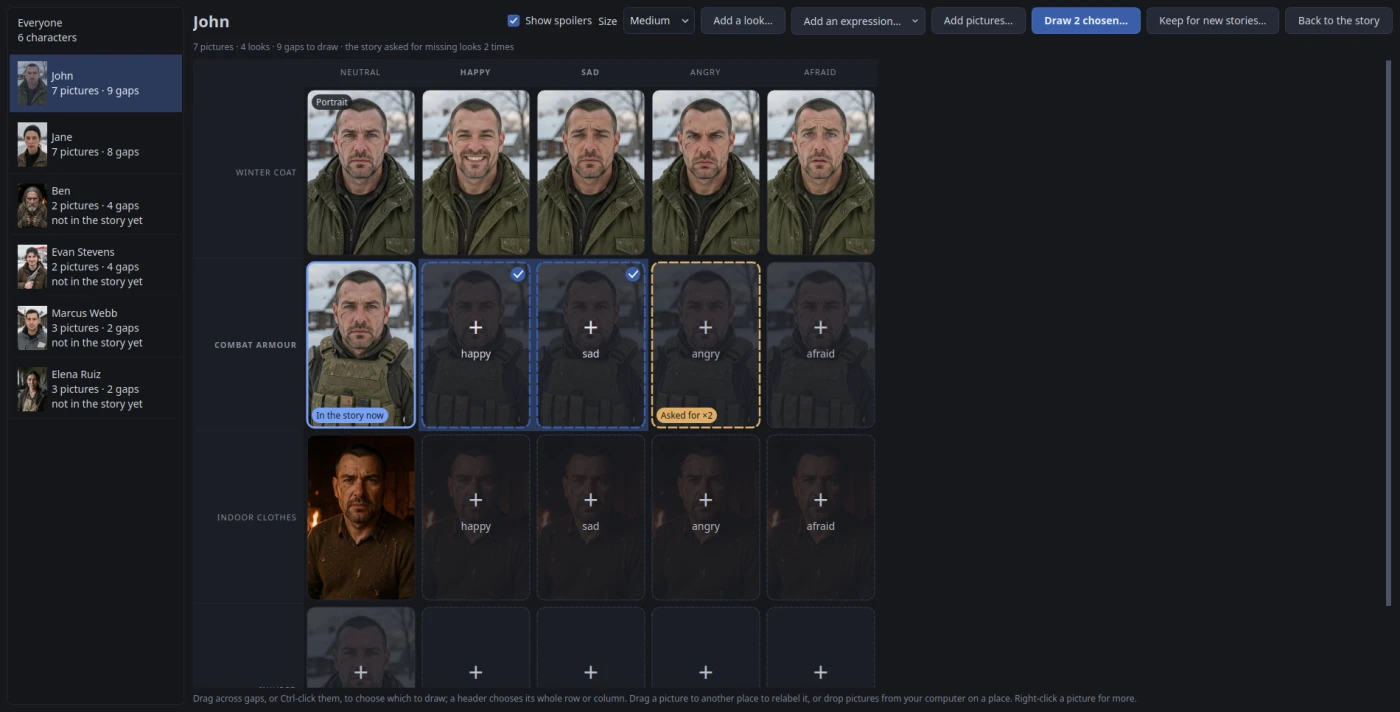
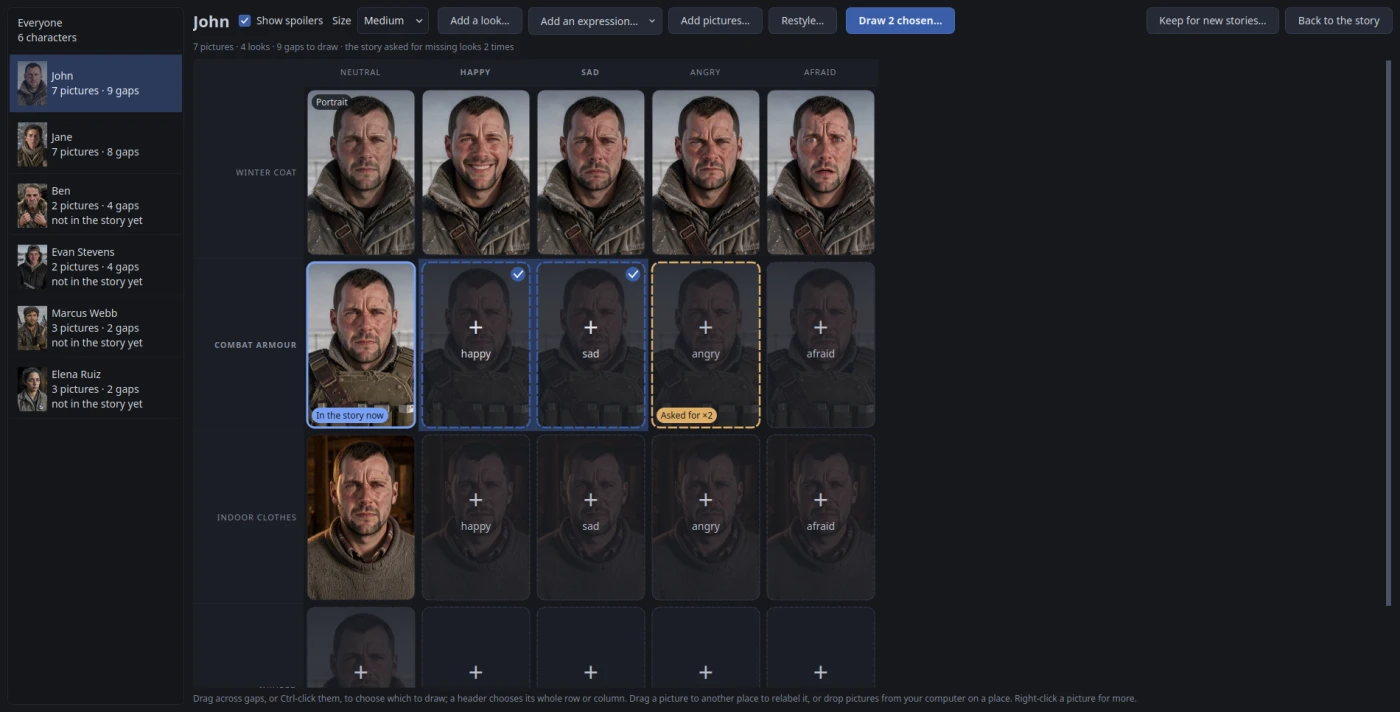
Doomsville redrawn on FLUX.3 Klein, gritty and realistic
Every character's portrait drawn again through the app's own path (GLM 5.3
writing in Doomsville's style, gritty and realistic, FLUX.3 Klein drawing;
two takes each, the better kept), and the eighteen looks drawn from them as
edits (the same labels; armour and indoor clothes in the earlier words).
Evan's angry drawn twice: the first was hardly more than his grin. Square
now (FLUX.3 Klein draws squares), 5.6 MB against 6.9 MB.

Elena's new portrait has a doctor's stethoscope and no apron (her card makes
her a doctor), so her look is "work clothes". The manual's cast board and
People page pictures are taken again with them.

diff --git a/SampleStories/Doomsville.md b/SampleStories/Doomsville.md
@@ -92,9 +92,9 @@ and how many people he can shoot with them.
 ## Elena Ruiz
 - role: storyteller
 - hidden: yes
-- picture: pictures/elena.jpg | portrait | look: apron | expression: neutral
-- picture: pictures/elena-happy.jpg | look: apron | expression: happy
-- picture: pictures/elena-sad.jpg | look: apron | expression: sad
+- picture: pictures/elena.jpg | portrait | look: work clothes | expression: neutral
+- picture: pictures/elena-happy.jpg | look: work clothes | expression: happy
+- picture: pictures/elena-sad.jpg | look: work clothes | expression: sad
 
 25, a former doctor in Hellsville, still doing her best to treat the injured and
 keep her community going.
